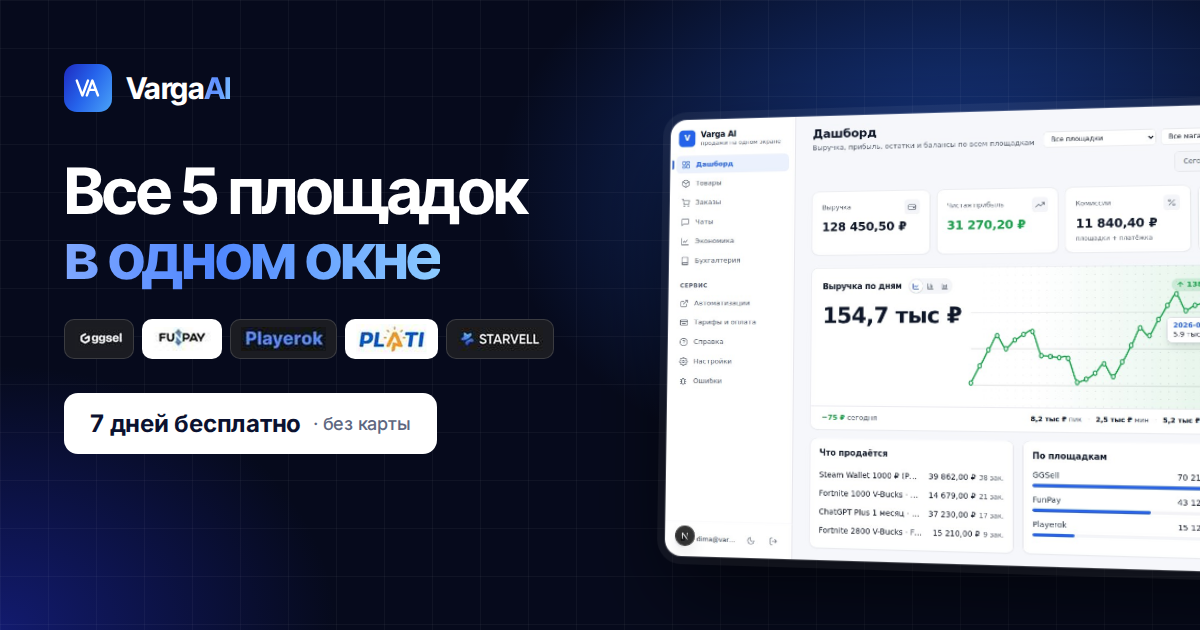
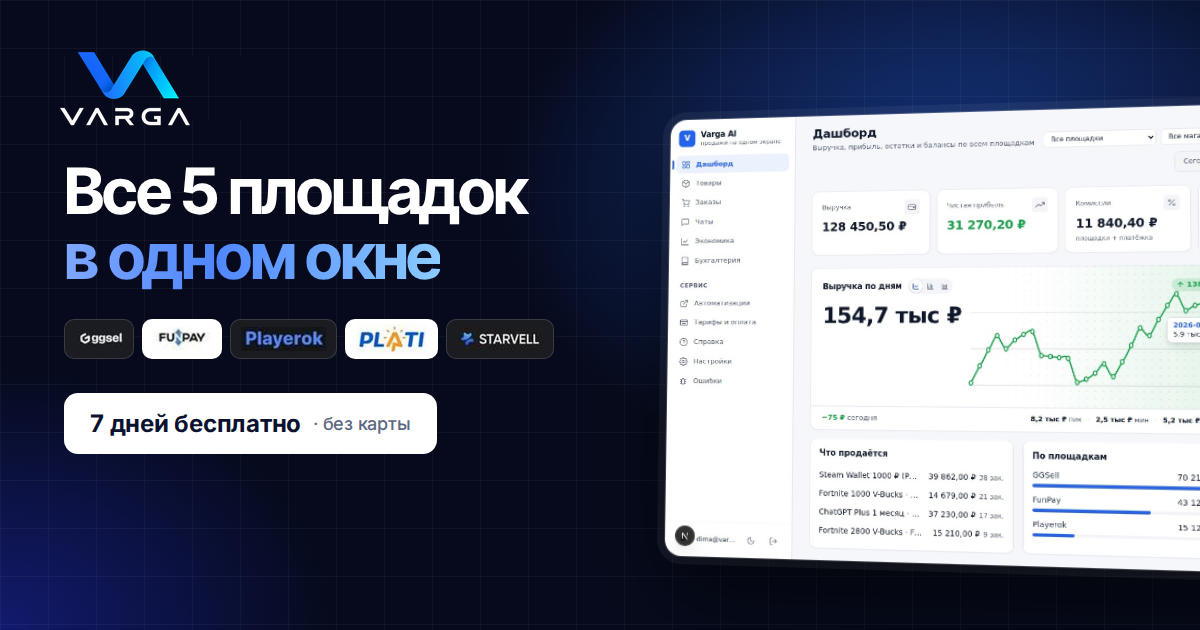
landing 22.10: deploy current version

Changed region(s): [[0.0308, 0.0603, 0.2158, 0.2111]]

diff --git a/index.html b/index.html
@@ -10,9 +10,9 @@
 <meta property="og:locale" content="ru_RU"/>
 <meta property="og:url" content="https://vargaai.ru/"/>
 <link rel="canonical" href="https://vargaai.ru/"/>
-<link rel="icon" type="image/png" href="/img/va-logo.png"/>
-<link rel="apple-touch-icon" href="/img/va-logo.png"/>
-<meta property="og:image" content="https://vargaai.ru/img/og.png"/>
+<link rel="icon" type="image/png" href="/img/va-logo.png?v=20261022"/>
+<link rel="apple-touch-icon" href="/img/va-logo.png?v=20261022"/>
+<meta property="og:image" content="https://vargaai.ru/img/og.png?v=20261022"/>
 <meta property="og:image:width" content="1200"/>
 <meta property="og:image:height" content="630"/>
 <meta name="twitter:card" content="summary_large_image"/>
@@ -812,7 +812,7 @@ table.grid tr:nth-child(3) td:first-child{--c:#F59E0B}table.grid tr:nth-child(4)
 </style>
 <script>document.documentElement.classList.add('js')</script>
 <script type="application/ld+json">
-{"@context": "https://schema.org", "@graph": [{"@type": "Organization", "@id": "https://vargaai.ru/#org", "name": "Varga AI", "url": "https://vargaai.ru/", "logo": "https://vargaai.ru/img/va-logo.png", "sameAs": ["https://t.me/ova_xd"]}, {"@type": "WebSite", "@id": "https://vargaai.ru/#site", "url": "https://vargaai.ru/", "name": "Varga AI", "inLanguage": "ru", "publisher": {"@id": "https://vargaai.ru/#org"}}, {"@type": "VideoObject", "name": "Как работает Varga AI: единый кабинет для продавцов на 6 площадках", "description": "1 минута: деньги после комиссий, юнит-экономика, холд, чаты и споры, автовыдача от поставщиков, свой склад кодов и оценка ниши.", "thumbnailUrl": "https://vargaai.ru/video/varga_landing_cover.jpg", "uploadDate": "2026-10-09", "duration": "PT1M4S", "contentUrl": "https://vargaai.ru/video/varga_landing_main_1080p.mp4", "inLanguage": "ru", "publisher": {"@id": "https://vargaai.ru/#org"}}]}
+{"@context": "https://schema.org", "@graph": [{"@type": "Organization", "@id": "https://vargaai.ru/#org", "name": "Varga AI", "url": "https://vargaai.ru/", "logo": "https://vargaai.ru/img/va-logo.png?v=20261022", "sameAs": ["https://t.me/ova_xd"]}, {"@type": "WebSite", "@id": "https://vargaai.ru/#site", "url": "https://vargaai.ru/", "name": "Varga AI", "inLanguage": "ru", "publisher": {"@id": "https://vargaai.ru/#org"}}, {"@type": "VideoObject", "name": "Как работает Varga AI: единый кабинет для продавцов на 6 площадках", "description": "1 минута: деньги после комиссий, юнит-экономика, холд, чаты и споры, автовыдача от поставщиков, свой склад кодов и оценка ниши.", "thumbnailUrl": "https://vargaai.ru/video/varga_landing_cover.jpg", "uploadDate": "2026-10-09", "duration": "PT1M4S", "contentUrl": "https://vargaai.ru/video/varga_landing_main_1080p.mp4", "inLanguage": "ru", "publisher": {"@id": "https://vargaai.ru/#org"}}]}
 </script>
 <script type="application/ld+json">
 {"@context":"https://schema.org","@type":"SoftwareApplication","name":"Varga AI","url":"https://vargaai.ru/","inLanguage":"ru","description":"GGSell, FunPay, Playerok, Plati, Starvell и Lootly в одном окне: заказы, деньги, остатки, чаты и выкладка. 7 дней бесплатно без карты.","applicationCategory":"BusinessApplication","operatingSystem":"Web","offers":[{"@type":"Offer","name":"Новичок","price":"490","priceCurrency":"RUB"},{"@type":"Offer","name":"Про","price":"1790","priceCurrency":"RUB"},{"@type":"Offer","name":"Бизнес","price":"3490","priceCurrency":"RUB"}]}
@@ -941,7 +941,7 @@ table.grid tr:nth-child(3) td:first-child{--c:#F59E0B}table.grid tr:nth-child(4)
 <body>
 <div class="progress" id="pbar"></div>
 <header id="hdr"><div class="hd">
-<a class="logo" href="#top"><img class="mark" src="img/va-logo2.webp" alt="Varga AI"/>Varga<span>AI</span></a>
+<a class="logo" href="#top"><img class="mark" src="img/va-logo2.webp?v=20261022" alt="Varga AI"/>Varga<span>AI</span></a>
 <nav><a href="#product">Возможности</a><a href="#auto">Автовыдача</a><a href="#how">Как работает</a><a href="#price">Тарифы</a><a href="#faq">Вопросы</a></nav>
 <div class="hd-right"><a class="hd-login" href="#trial" data-app-link="login" hidden>Войти</a><a class="btn small violet" href="#trial">Начать бесплатно</a></div>
 </div></header>

diff --git a/yandex_c46559f8a3536433.html b/yandex_c46559f8a3536433.html
@@ -1,0 +1,6 @@
+<html>
+    <head>
+        <meta http-equiv="Content-Type" content="text/html; charset=UTF-8">
+    </head>
+    <body>Verification: c46559f8a3536433</body>
+</html>
